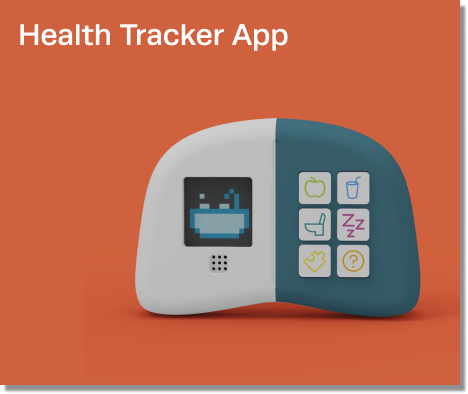
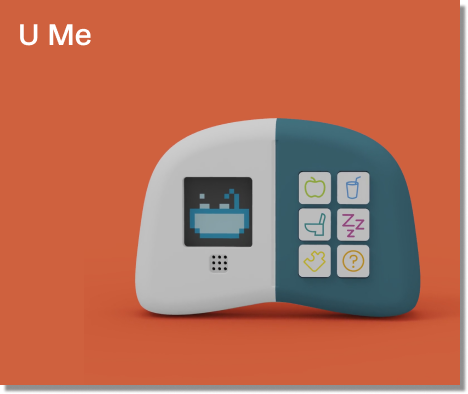
Add correct layout to U Me page

Changed region(s): [[0.0299, 0.0609, 0.6282, 0.1218]]

diff --git a/src/components/U Me/index.js b/src/components/U Me/index.js
@@ -1,0 +1,91 @@
+import React from 'react'
+import { InfoContainer, 
+    InfoWrapper, 
+    InfoRow, 
+    TopLine, 
+    Subtitle,
+    Image,
+    Column,
+    SubHeading,
+    PortfolioGrid,
+    PortfolioRow,
+    SectionHeading1,
+    SectionHeading2,
+    Row,
+    PDFDiv,
+    YoutubeEmbed
+} from './UMeElements'
+
+const UMe = () => {
+
+  return (
+    <InfoContainer>
+        <InfoWrapper>
+            <br/>
+            <br/>
+            <InfoRow>
+                <TopLine>Arama</TopLine>
+            </InfoRow>
+            <InfoRow>
+                <SubHeading>sketching | cad | personas | journey mapping | lo-fi prototyping</SubHeading>
+            </InfoRow>
+            <br/>
+            <br/>
+            <br/>
+            <br/>
+            <PortfolioGrid>
+                <PortfolioRow>
+                    <Column>
+                        <Image src={require('../../Visuals/Portfolio/Arama/Arama.png')}/>
+                    </Column>
+                    <Column>
+                        <Subtitle>Duration: 5 weeks</Subtitle>
+                        <br/>
+                        <br/>
+                        <Subtitle>Date: February - March 2021</Subtitle>
+                        <br/>
+                        <br/>
+                        <Subtitle>Nature: an individual ideation document, detailing the design process carried out to come up with a device to aid communication for severely autistic, non-verbal children, as part of an Industrial Design Engineering module</Subtitle>
+                    </Column>
+                </PortfolioRow>
+                <br/>
+                <br/>
+                <PortfolioRow>
+                    <Column>
+                      <SectionHeading1>the problem</SectionHeading1>
+                      <Subtitle>Children with severe autism have trouble communicating, even with those closest to them, such as their parents. They struggle to understand spoken instructions, and often cannot ask for help when they need it, even for simple tasks.</Subtitle>
+                      <br/>
+                    </Column>
+                    <Column>
+                      <SectionHeading2>the outcomes</SectionHeading2>
+                      <Subtitle>Arama is a device that is based in voice to text recognition. It will display a visual prompt for instructions and tasks that the adult gives to the child, as they often find it easier to understand written instruction or tasks than spoken ones.</Subtitle>
+                        <br/>
+                    </Column>
+                </PortfolioRow>
+                <br/>
+                <Row>
+                    <PDFDiv>
+                        <Image src={require('../../Visuals/Portfolio/Arama/Anusha Concept Booklet-01.png')}/>
+                        <Image src={require('../../Visuals/Portfolio/Arama/Anusha Concept Booklet-02.png')}/>
+                        <Image src={require('../../Visuals/Portfolio/Arama/Anusha Concept Booklet-03.png')}/>
+                        <Image src={require('../../Visuals/Portfolio/Arama/Anusha Concept Booklet-04.png')}/>
+                        <Image src={require('../../Visuals/Portfolio/Arama/Anusha Concept Booklet-05.png')}/>
+                        <Image src={require('../../Visuals/Portfolio/Arama/Anusha Concept Booklet-06.png')}/>
+                        <Image src={require('../../Visuals/Portfolio/Arama/Anusha Concept Booklet-07.png')}/>
+                        <Image src={require('../../Visuals/Portfolio/Arama/Anusha Concept Booklet-08.png')}/>
+                        <Image src={require('../../Visuals/Portfolio/Arama/Anusha Concept Booklet-09.png')}/>
+                        <Image src={require('../../Visuals/Portfolio/Arama/Anusha Concept Booklet-10.png')}/>
+                        <Image src={require('../../Visuals/Portfolio/Arama/Anusha Concept Booklet-11.png')}/>
+                    </PDFDiv>
+                </Row>
+                <br/>  
+                <br/>  
+                <br/>      
+            </PortfolioGrid>
+            
+        </InfoWrapper>
+    </InfoContainer>
+  )
+}
+
+export default UMe

diff --git a/src/components/U Me/UMeElements.js b/src/components/U Me/UMeElements.js
@@ -1,0 +1,143 @@
+import styled, { css } from 'styled-components';
+import {Link as LinkR} from 'react-router-dom';
+
+export const InfoContainer = styled.div`
+    background: #ffffff;
+    width: 100%;
+    height: 100%
+    overflow: hidden;
+    align-items: center;
+
+    @media screen and (max-width: 768px) {
+        padding: 0px
+    }
+`
+
+export const InfoWrapper = styled.div`
+    display: grid;
+    z-index: 1;
+    height: 100%;
+    width: auto;
+    margin-right: 10%;
+    margin-left: 10%;
+    overflow: hidden;
+    align-items: center;
+
+    @media screen and (max-width: 768px) {
+        margin-right: 5%;
+        margin-left: 5%;
+    }
+
+    @media screen and (max-width: 400px) {
+        margin-right: 0%;
+        margin-left: 0%;
+    }
+`
+export const NavLogo = styled(LinkR)`
+    color: white;
+    justify-self: flex-start;
+    cursor: pointer;
+    font-size: 1.5rem;
+    display: flex;
+    align-items: center;
+    margin-left: 24px;
+    font-weight: bold;
+    text-decoration: none;
+`
+
+export const InfoRow = styled.div`
+    display: grid;
+    align-items: center;
+    justify-items: center;
+    max-height: max-content;
+`
+
+export const TopLine = styled.p`
+    color: #787878;
+    font-size: 30px;
+    font-weight: 200;
+    letter-spacing: 5px;
+    text-transform: uppercase;
+    margin-bottom: 10px;
+    align-items: center;
+`
+
+export const SubHeading = styled.p`
+    color: #c1ccfb;
+    font-size: 15px;
+    font-weight: 500;
+`
+
+export const Subtitle = styled.p`
+    max-width: max-content;
+    font-size: 1em;
+    line-height: 24px;
+    color: #787878;
+    text-align: justify;
+`
+
+export const PortfolioGrid = styled.div`
+    width: 70%;
+    overflow: hidden;
+    margin: 0 15% 0 15%;
+    align-items: center;
+`
+
+export const PortfolioRow = styled.div`
+    display: flex;
+    width: 100%;
+    justify-content: space-between;
+    flex-direction: row;
+    align-items: center;
+    
+    @media screen and (max-width: 768px) {
+        flex-direction: column;
+    }
+`
+
+export const Column = styled.div`
+    max-width: 50%;
+    padding: 0px 5% 0px 0px;
+`
+
+export const Image = styled.img`
+    width: 100%;
+`
+
+export const SectionHeading1 = styled.p`
+    color: #c1ccfb;
+    font-size: 25px;
+    font-weight: 500;
+`
+
+export const SectionHeading2 = styled.p`
+    color: #c1ccfb;
+    font-size: 25px;
+    font-weight: 500;
+`
+
+export const Row = styled.div`
+    display: grid;
+    max-height: 50%;
+`
+
+export const YoutubeEmbed = ({ }) => (
+    <div className='video-responsive'>
+        <iframe
+        src="https://www.youtube.com/watch?v=jOqSIPo2E-w"
+        allow="autoplay; encrypted-media; fullscreen"
+        allowFullScreen
+        title="video"
+        width="auto"
+        height="100%"
+      />{" "}
+    </div>
+)
+
+export const PDFDiv = styled.div`
+    background-color: #787878;
+    overflow-y: scroll;
+    height: 60vh;
+    border-color: #787878;
+    border-radius: 2px;
+`

diff --git a/src/App.js b/src/App.js
@@ -11,6 +11,7 @@ import AramaPage from './Pages/AramaPage';
 import TravelToothpastePage from './Pages/TravelToothpastePage';
 import HealthTrackerAppPage from './Pages/HealthTrackerAppPage';
 import TandemBikePage from './Pages/TandemBikePage';
+import UMePage from './Pages/UMePage';
 import CVPage from './Pages/CVPage'
 import PDFPortfolioPage from './Pages/PDFPortfolioPage';
 
@@ -31,6 +32,7 @@ function App() {
       <Route path="/PDFPortfolioPage" component={PDFPortfolioPage} exact/>
       <Route path="/ReStandPage" component={ReStandPage} exact/>
       <Route path="/TandemBikePage" component={TandemBikePage} exact/>
+      <Route path="/UMePage" component={UMePage} exact />
     </Switch>
   );
 }

diff --git a/src/components/Portfolio/index.js b/src/components/Portfolio/index.js
@@ -72,7 +72,7 @@ const PortfolioSection = () => {
           <PortfolioRow>
             <Column>
               <LinkWrap>
-                <ImageLink to={"/ThePeriodSteriliserPage"}>
+                <ImageLink to={"/UMePage"}>
                   <Image src={require('../../Visuals/Portfolio/Landing Page/U Me Title Card.png')}/>
                 </ImageLink>
               </LinkWrap>

diff --git a/src/Pages/UMePage.js b/src/Pages/UMePage.js
@@ -1,0 +1,15 @@
+import React from 'react'
+import Navbar from '../components/Navbar'
+import UMe from '../components/U Me'
+
+const UMePage = () => {
+  return (
+    <>
+      <Navbar/>
+      <UMe/>
+    </>
+    
+  )
+}
+
+export default UMePage
